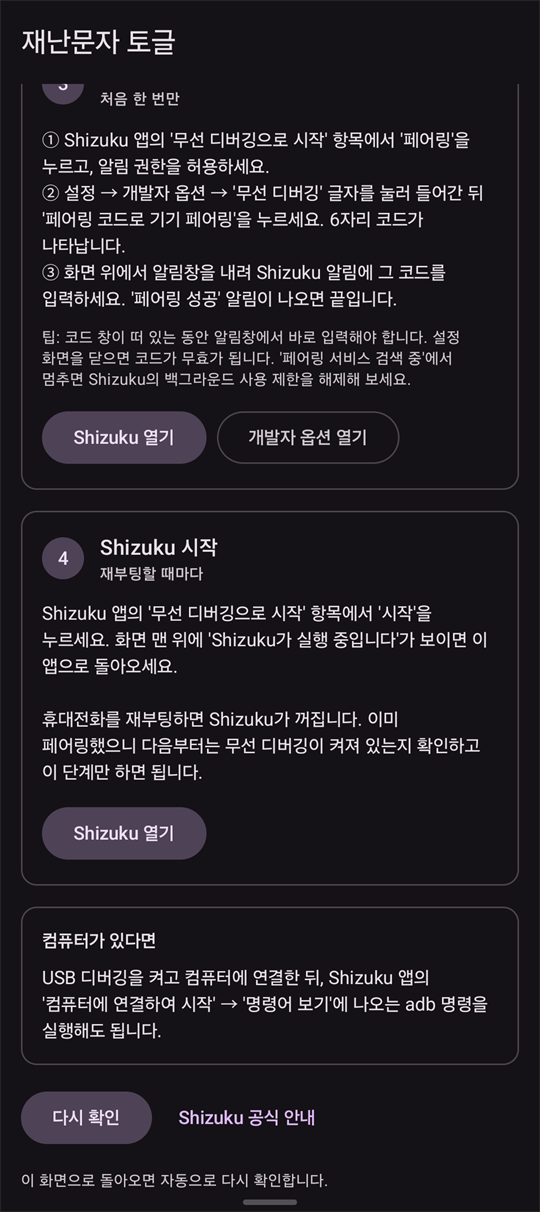
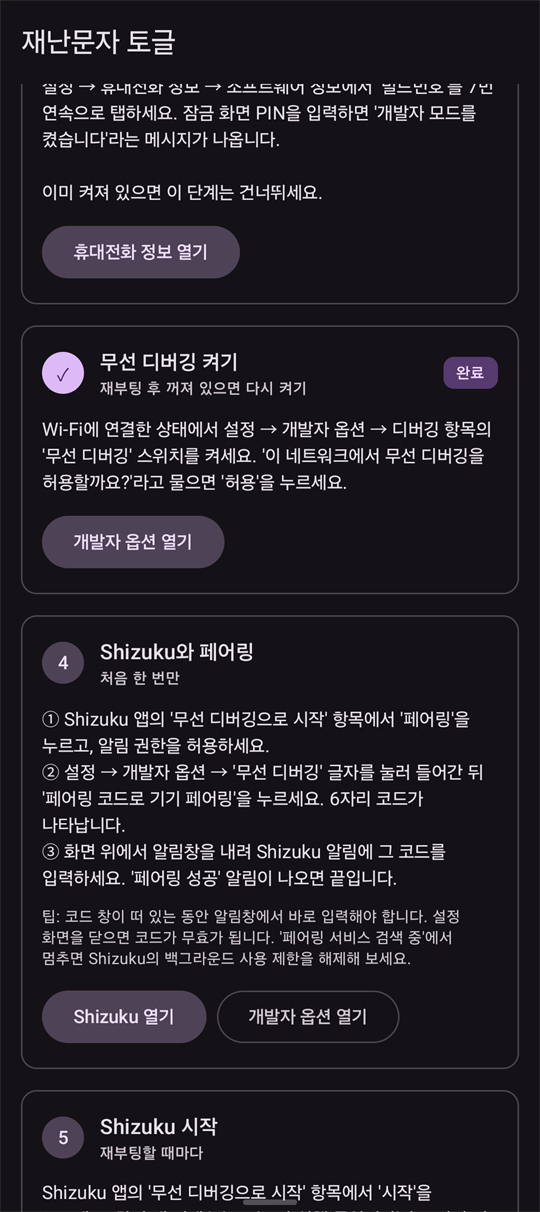
Guide Galaxy users to turn off Auto Blocker before starting Shizuku
- New first step on devices with Samsung Auto Blocker (com.samsung.android.rampart), which blocks wireless debugging and stops a running Shizuku
- Button opens the Auto Blocker screen directly; falls back to Security settings
- Updated guide screenshots
- README download button now fetches the latest APK directly
- Version 0.1.1 (3)

diff --git a/app/src/main/java/com/kamilake/cbtoggle/ShizukuGuide.kt b/app/src/main/java/com/kamilake/cbtoggle/ShizukuGuide.kt
@@ -53,17 +53,32 @@ fun InstallGuide(onRecheck: () -> Unit) {
 }
 
 @Composable
-fun StartGuide(developerOptions: Boolean, wirelessDebugging: Boolean?, onRecheck: () -> Unit) {
+fun StartGuide(
+    autoBlocker: Boolean,
+    developerOptions: Boolean,
+    wirelessDebugging: Boolean?,
+    onRecheck: () -> Unit,
+) {
     val context = LocalContext.current
+    var step = 0
     GuideHeader(R.string.start_title, R.string.start_intro)
-    StepCard(1, R.string.step_dev_title, R.string.badge_once, done = developerOptions) {
+    if (autoBlocker) {
+        StepCard(++step, R.string.step_blocker_title, R.string.badge_galaxy) {
+            BodyText(R.string.step_blocker_body)
+            TipText(R.string.step_blocker_tip)
+            FilledTonalButton(onClick = { context.openAutoBlocker() }) {
+                Text(stringResource(R.string.step_blocker_action))
+            }
+        }
+    }
+    StepCard(++step, R.string.step_dev_title, R.string.badge_once, done = developerOptions) {
         BodyText(R.string.step_dev_body)
         FilledTonalButton(onClick = { context.openSettings(Intent(Settings.ACTION_DEVICE_INFO_SETTINGS)) }) {
             Text(stringResource(R.string.step_dev_action))
         }
     }
     StepCard(
-        2, R.string.step_wifi_title, R.string.badge_check_after_boot,
+        ++step, R.string.step_wifi_title, R.string.badge_check_after_boot,
         done = wirelessDebugging?.let { it && developerOptions },
     ) {
         BodyText(R.string.step_wifi_body)
@@ -71,7 +86,7 @@ fun StartGuide(developerOptions: Boolean, wirelessDebugging: Boolean?, onRecheck
             Text(stringResource(R.string.open_developer_options))
         }
     }
-    StepCard(3, R.string.step_pair_title, R.string.badge_once) {
+    StepCard(++step, R.string.step_pair_title, R.string.badge_once) {
         BodyText(R.string.step_pair_body)
         TipText(R.string.step_pair_tip)
         Row(horizontalArrangement = Arrangement.spacedBy(8.dp)) {
@@ -81,7 +96,7 @@ fun StartGuide(developerOptions: Boolean, wirelessDebugging: Boolean?, onRecheck
             }
         }
     }
-    StepCard(4, R.string.step_start_title, R.string.badge_every_boot) {
+    StepCard(++step, R.string.step_start_title, R.string.badge_every_boot) {
         BodyText(R.string.step_start_body)
         FilledTonalButton(onClick = { context.openShizuku() }) { Text(stringResource(R.string.open_shizuku)) }
     }
@@ -216,6 +231,12 @@ private fun Context.openWirelessDebugging() = openSettings(
     // Undocumented extra that scrolls Settings to the "Wireless debugging" row.
     Intent(Settings.ACTION_APPLICATION_DEVELOPMENT_SETTINGS).putExtra(":settings:fragment_args_key", "toggle_adb_wireless"),
 )
+
+private fun Context.openAutoBlocker() {
+    // Exported settings screen; the Settings-menu aliases point at an invisible event handler instead.
+    val intent = Intent().setClassName(AUTO_BLOCKER_PACKAGE, "$AUTO_BLOCKER_PACKAGE.ui.MainSettingActivity")
+    if (!launch(intent)) openSettings(Intent(Settings.ACTION_SECURITY_SETTINGS))
+}
 
 fun Context.openShizuku() {
     packageManager.getLaunchIntentForPackage(SHIZUKU_PACKAGE)?.let { launch(it) }

diff --git a/app/src/main/java/com/kamilake/cbtoggle/MainViewModel.kt b/app/src/main/java/com/kamilake/cbtoggle/MainViewModel.kt
@@ -21,6 +21,9 @@ import rikka.shizuku.Shizuku
 
 const val SHIZUKU_PACKAGE = "moe.shizuku.privileged.api"
 
+// Samsung "Auto Blocker"; while on it blocks adb, so Shizuku cannot start.
+const val AUTO_BLOCKER_PACKAGE = "com.samsung.android.rampart"
+
 // Shizuku pushes its binder shortly after our activity comes to the foreground.
 private const val BINDER_WAIT_MS = 1000L
 
@@ -41,6 +44,8 @@ class MainViewModel(app: Application) : AndroidViewModel(app) {
     var developerOptionsEnabled by mutableStateOf(false)
         private set
     var wirelessDebuggingEnabled by mutableStateOf<Boolean?>(null)
+        private set
+    var hasAutoBlocker by mutableStateOf(false)
         private set
     var users by mutableStateOf<List<UserState>>(emptyList())
         private set
@@ -114,10 +119,10 @@ class MainViewModel(app: Application) : AndroidViewModel(app) {
         it.query()
     }
 
-    private fun offlinePhase(): Phase = if (isShizukuInstalled()) Phase.NotRunning else Phase.NotInstalled
+    private fun offlinePhase(): Phase = if (isInstalled(SHIZUKU_PACKAGE)) Phase.NotRunning else Phase.NotInstalled
 
-    private fun isShizukuInstalled(): Boolean = try {
-        getApplication<Application>().packageManager.getPackageInfo(SHIZUKU_PACKAGE, 0)
+    private fun isInstalled(packageName: String): Boolean = try {
+        getApplication<Application>().packageManager.getPackageInfo(packageName, 0)
         true
     } catch (_: PackageManager.NameNotFoundException) {
         false
@@ -129,6 +134,8 @@ class MainViewModel(app: Application) : AndroidViewModel(app) {
             Settings.Global.getInt(resolver, Settings.Global.DEVELOPMENT_SETTINGS_ENABLED, 0) == 1
         // Not a public key; null when the platform does not let us read it.
         wirelessDebuggingEnabled = runCatching { Settings.Global.getInt(resolver, "adb_wifi_enabled") == 1 }.getOrNull()
+        // Its on/off switch is not readable by regular apps, so only presence is checked.
+        hasAutoBlocker = isInstalled(AUTO_BLOCKER_PACKAGE)
     }
 
     private fun onShizukuAvailable() {

diff --git a/app/src/main/java/com/kamilake/cbtoggle/MainActivity.kt b/app/src/main/java/com/kamilake/cbtoggle/MainActivity.kt
@@ -76,7 +76,12 @@ private fun MainScreen(vm: MainViewModel) {
             when (vm.phase) {
                 Phase.Checking, Phase.Connecting -> LinearProgressIndicator(Modifier.fillMaxWidth())
                 Phase.NotInstalled -> InstallGuide(vm::retry)
-                Phase.NotRunning -> StartGuide(vm.developerOptionsEnabled, vm.wirelessDebuggingEnabled, vm::retry)
+                Phase.NotRunning -> StartGuide(
+                    autoBlocker = vm.hasAutoBlocker,
+                    developerOptions = vm.developerOptionsEnabled,
+                    wirelessDebugging = vm.wirelessDebuggingEnabled,
+                    onRecheck = vm::retry,
+                )
                 Phase.NeedPermission -> MessageCard(R.string.permission_needed, R.string.grant, vm::requestPermission)
                 Phase.PermissionDenied -> PermissionDeniedCard(vm::retry)
                 Phase.Ready -> {

diff --git a/README.md b/README.md
@@ -1,5 +1,5 @@
 <p align="center">
-  <a href="https://github.com/Kamilake/cell-broadcast-toggle/releases/latest"><img src="https://img.shields.io/badge/APK_%EB%8B%A4%EC%9A%B4%EB%A1%9C%EB%93%9C-3DDC84?style=for-the-badge&logo=android&logoColor=white" width="260" alt="APK 다운로드"></a>
+  <a href="https://github.com/Kamilake/cell-broadcast-toggle/releases/latest/download/cell-broadcast-toggle.apk"><img src="https://img.shields.io/badge/APK_%EB%8B%A4%EC%9A%B4%EB%A1%9C%EB%93%9C-3DDC84?style=for-the-badge&logo=android&logoColor=white" width="260" alt="APK 다운로드"></a>
 </p>
 
 # 재난문자 토글 (Cell Broadcast Toggle)
@@ -17,7 +17,7 @@
 
 ## 설치
 
-[Releases](https://github.com/Kamilake/cell-broadcast-toggle/releases/latest)에서 `cell-broadcast-toggle-*.apk`를 내려받아 설치하세요.
+위 버튼을 누르면 최신 버전 APK가 바로 내려받아집니다. 변경 사항과 이전 버전은 [Releases](https://github.com/Kamilake/cell-broadcast-toggle/releases)에 있습니다.
 
 릴리스 APK는 아래 인증서로 서명됩니다. 다른 곳에서 받은 APK라면 지문을 비교해 보세요.
 
@@ -26,7 +26,7 @@ SHA-256: b0:4c:dc:8c:a4:36:17:8c:b0:c9:c8:8b:e4:ec:45:1d:5a:d9:a4:0b:16:58:01:eb
 ```
 
 ```powershell
-apksigner verify --print-certs cell-broadcast-toggle-*.apk
+apksigner verify --print-certs cell-broadcast-toggle.apk
 ```
 
 ## 스크린샷
@@ -71,12 +71,17 @@ adb shell pm enable --user 0 com.google.android.cellbroadcastservice
 
 Shizuku가 없거나 꺼져 있으면 앱이 상황에 맞는 안내를 보여 줍니다. 다른 앱에서 작업을 마치고 돌아오면 자동으로 다시 확인합니다.
 
-| Shizuku 미설치 | Shizuku 꺼짐 (1/2) | Shizuku 꺼짐 (2/2) |
+| Shizuku 꺼짐 (1/3) | Shizuku 꺼짐 (2/3) | Shizuku 꺼짐 (3/3) |
 |:---:|:---:|:---:|
-| <img src="docs/screenshots/guide-install.png" width="240" alt="Shizuku 설치 안내"> | <img src="docs/screenshots/guide-start.png" width="240" alt="Shizuku 시작 안내 위쪽"> | <img src="docs/screenshots/guide-start-2.png" width="240" alt="Shizuku 시작 안내 아래쪽"> |
+| <img src="docs/screenshots/guide-start.png" width="240" alt="Shizuku 시작 안내: 보안 위험 자동 차단·개발자 옵션"> | <img src="docs/screenshots/guide-start-2.png" width="240" alt="Shizuku 시작 안내: 무선 디버깅·페어링"> | <img src="docs/screenshots/guide-start-3.png" width="240" alt="Shizuku 시작 안내: 시작"> |
 
+| Shizuku 미설치 |
+|:---:|
+| <img src="docs/screenshots/guide-install.png" width="240" alt="Shizuku 설치 안내"> |
+
+- **꺼짐**: 보안 위험 자동 차단(갤럭시) → 개발자 옵션 → 무선 디버깅 → 페어링 → 시작 순서로 안내합니다. 개발자 옵션과 무선 디버깅이 이미 켜져 있으면 "완료"로 표시합니다.
+  - 갤럭시의 **보안 위험 자동 차단**이 켜져 있으면 무선 디버깅이 막혀 Shizuku를 시작할 수 없고, 나중에 켜면 실행 중이던 Shizuku도 멈춥니다. 최신 갤럭시는 처음부터 켜져 있을 수 있어, 갤럭시에서는 이 단계가 맨 앞에 나오고 설정 화면으로 바로 가는 버튼을 제공합니다.
 - **미설치**: Play 스토어와 GitHub 공식 배포 페이지로 바로 이동하는 버튼을 제공합니다.
-- **꺼짐**: 개발자 옵션 → 무선 디버깅 → 페어링 → 시작 순서로 안내합니다. 개발자 옵션과 무선 디버깅이 이미 켜져 있으면 "완료"로 표시합니다.
 - **권한 거부**: Shizuku 앱의 '인증된 앱'에서 다시 허용하도록 안내합니다.
 
 검증한 기기: Galaxy Z Fold Special Edition (SM-F958N), Android 15
